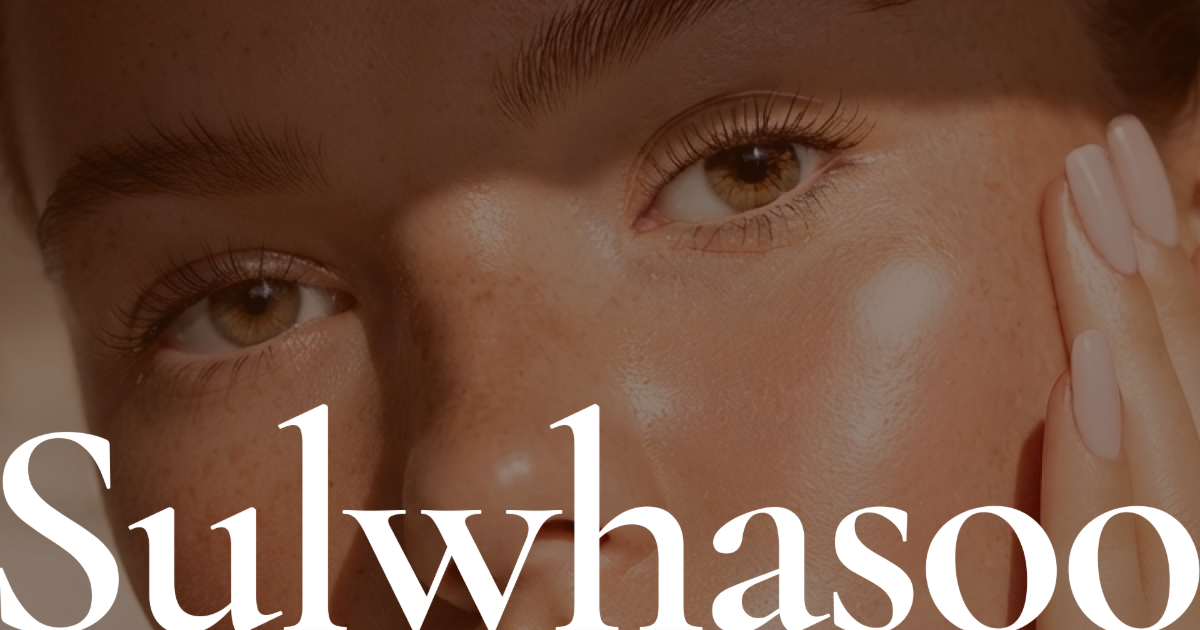
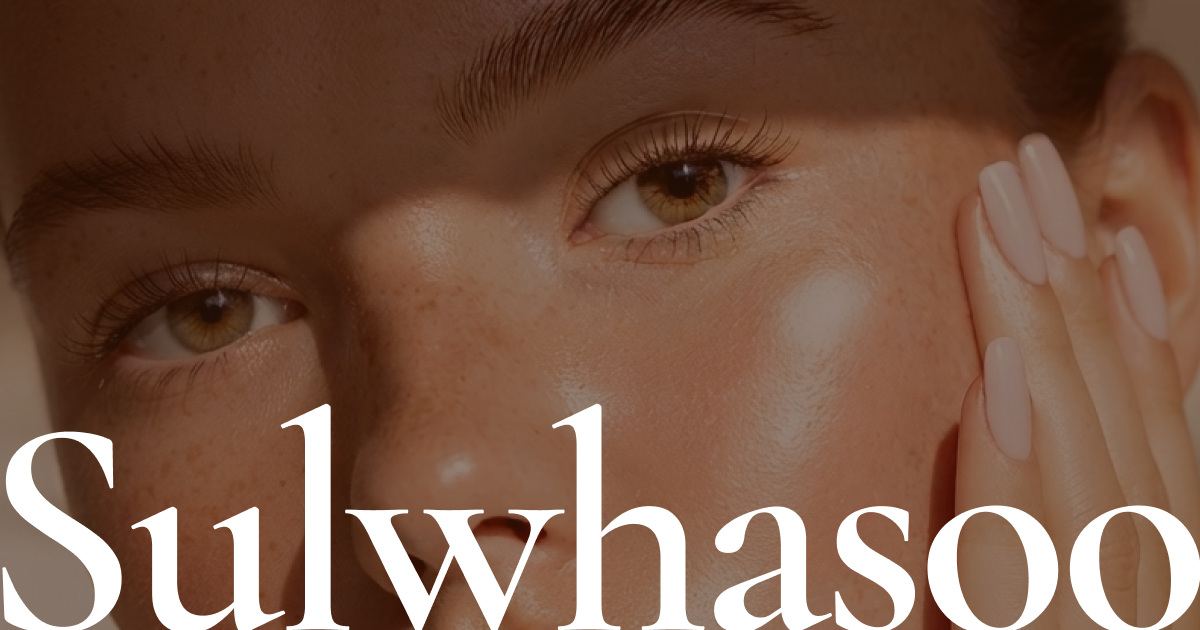
'icon_sul'

diff --git a/index.html b/index.html
@@ -7,40 +7,40 @@
 
   <title>Sulwhasoo</title>
 
-<!-- 기본 SEO -->
-<title>설화수</title>
-<meta name="description" content="설화수 리디자인 사이트" />
-<meta name="keywords" content="리디자인, 한방팀" />
-<meta name="author" content="1조 한방팀" />
-<meta name="robots" content="index, follow, max-image-preview:large, max-snippet:-1, max-video-preview:-1" />
-<meta name="viewport" content="width=device-width, initial-scale=1" />
-<link rel="canonical" href="https://harperppppppp.github.io/sulwhasoo/" />
-<meta name="theme-color" content="#ffffff" />
+  <!-- 기본 SEO -->
+  <title>설화수</title>
+  <meta name="description" content="설화수 리디자인 사이트" />
+  <meta name="keywords" content="한방팀, 설화수, 리디자인" />
+  <meta name="author" content="1조 한방팀" />
+  <meta name="robots" content="index, follow, max-image-preview:large, max-snippet:-1, max-video-preview:-1" />
+  <meta name="viewport" content="width=device-width, initial-scale=1" />
+  <link rel="canonical" href="https://harperppppppp.github.io/sulwhasoo/" />
+  <meta name="theme-color" content="#ffffff" />
 
-<!-- 파비콘 세트 (/favicon 폴더에 업로드) -->
-<link rel="icon" href="/favicon/favicon.ico" sizes="48x48" />
-<link rel="icon" type="image/png" sizes="16x16" href="/favicon/favicon-16.png" />
-<link rel="icon" type="image/png" sizes="32x32" href="/favicon/favicon-32.png" />
-<link rel="apple-touch-icon" href="/favicon/apple-touch-icon.png" />
-<link rel="icon" type="image/png" sizes="192x192" href="/favicon/icon-192.png" />
-<link rel="icon" type="image/png" sizes="512x512" href="/favicon/icon-512.png" />
-<link rel="manifest" href="/favicon/site.webmanifest" />
+  <!-- 파비콘 세트 (/favicon 폴더에 업로드) -->
+  <link rel="icon" href="/favicon/favicon.ico" sizes="48x48" />
+  <link rel="icon" type="image/png" sizes="16x16" href="/favicon/favicon-16.png" />
+  <link rel="icon" type="image/png" sizes="32x32" href="/favicon/favicon-32.png" />
+  <link rel="apple-touch-icon" href="/favicon/apple-touch-icon.png" />
+  <link rel="icon" type="image/png" sizes="192x192" href="/favicon/icon-192.png" />
+  <link rel="icon" type="image/png" sizes="512x512" href="/favicon/icon-512.png" />
+  <link rel="manifest" href="/favicon/site.webmanifest" />
 
-<!-- 오픈그래프 (카카오톡/페이스북 등 공유 미리보기) -->
-<meta property="og:type" content="website" />
-<meta property="og:site_name" content="설화수" />
-<meta property="og:title" content="설화수" />
-<meta property="og:description" content="설화수 리디자인 사이트" />
-<meta property="og:url" content="https://harperppppppp.github.io/sulwhasoo/" />
-<meta property="og:image" content="https://harperppppppp.github.io/sulwhasoo/og-image.png" />
-<meta property="og:image:width" content="1200" />
-<meta property="og:image:height" content="630" />
+  <!-- 오픈그래프 (카카오톡/페이스북 등 공유 미리보기) -->
+  <meta property="og:type" content="website" />
+  <meta property="og:site_name" content="설화수" />
+  <meta property="og:title" content="설화수" />
+  <meta property="og:description" content="설화수 리디자인 사이트" />
+  <meta property="og:url" content="https://harperppppppp.github.io/sulwhasoo/" />
+  <meta property="og:image" content="https://harperppppppp.github.io/sulwhasoo/og-image.png" />
+  <meta property="og:image:width" content="1200" />
+  <meta property="og:image:height" content="630" />
 
-<!-- 트위터(X) 카드 -->
-<meta name="twitter:card" content="summary_large_image" />
-<meta name="twitter:title" content="설화수" />
-<meta name="twitter:description" content="설화수 리디자인 사이트" />
-<meta name="twitter:image" content="https://harperppppppp.github.io/sulwhasoo/og-image.png" />
+  <!-- 트위터(X) 카드 -->
+  <meta name="twitter:card" content="summary_large_image" />
+  <meta name="twitter:title" content="설화수" />
+  <meta name="twitter:description" content="설화수 리디자인 사이트" />
+  <meta name="twitter:image" content="https://harperppppppp.github.io/sulwhasoo/og-image.png" />
 
   <!-- 폰트 -->
   <link rel="preconnect" href="https://fonts.googleapis.com">
